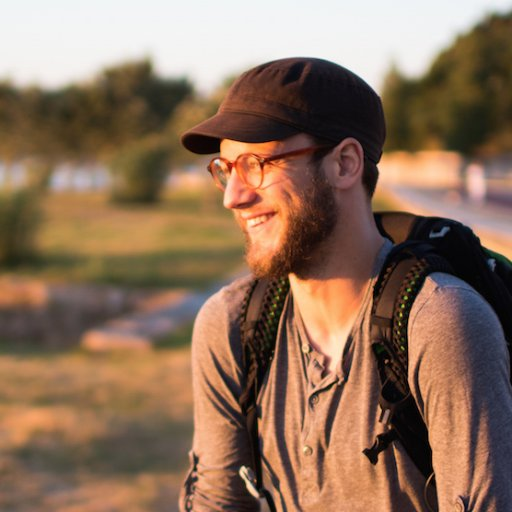
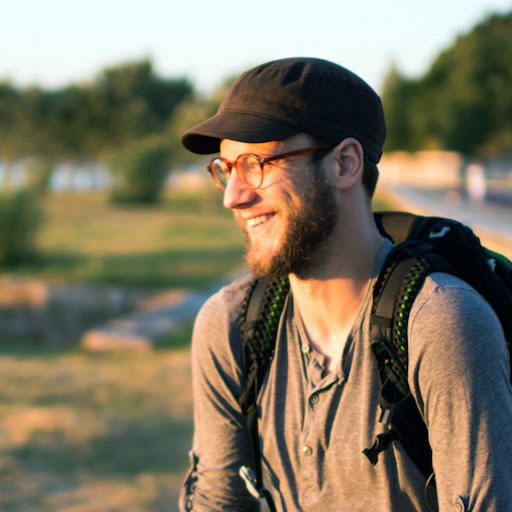
Image optimize

diff --git a/gulpfile.js b/gulpfile.js
@@ -1,0 +1,13 @@
+const gulp = require('gulp');
+const imagemin = require('gulp-imagemin');
+const pngquant = require('imagemin-pngquant');
+
+gulp.task('default', () => {
+    return gulp.src('src/img/**/*')
+        .pipe(imagemin({
+            progressive: true,
+            svgoPlugins: [{removeViewBox: false}],
+            use: [pngquant()]
+        }))
+        .pipe(gulp.dest('assets/img'));
+});
